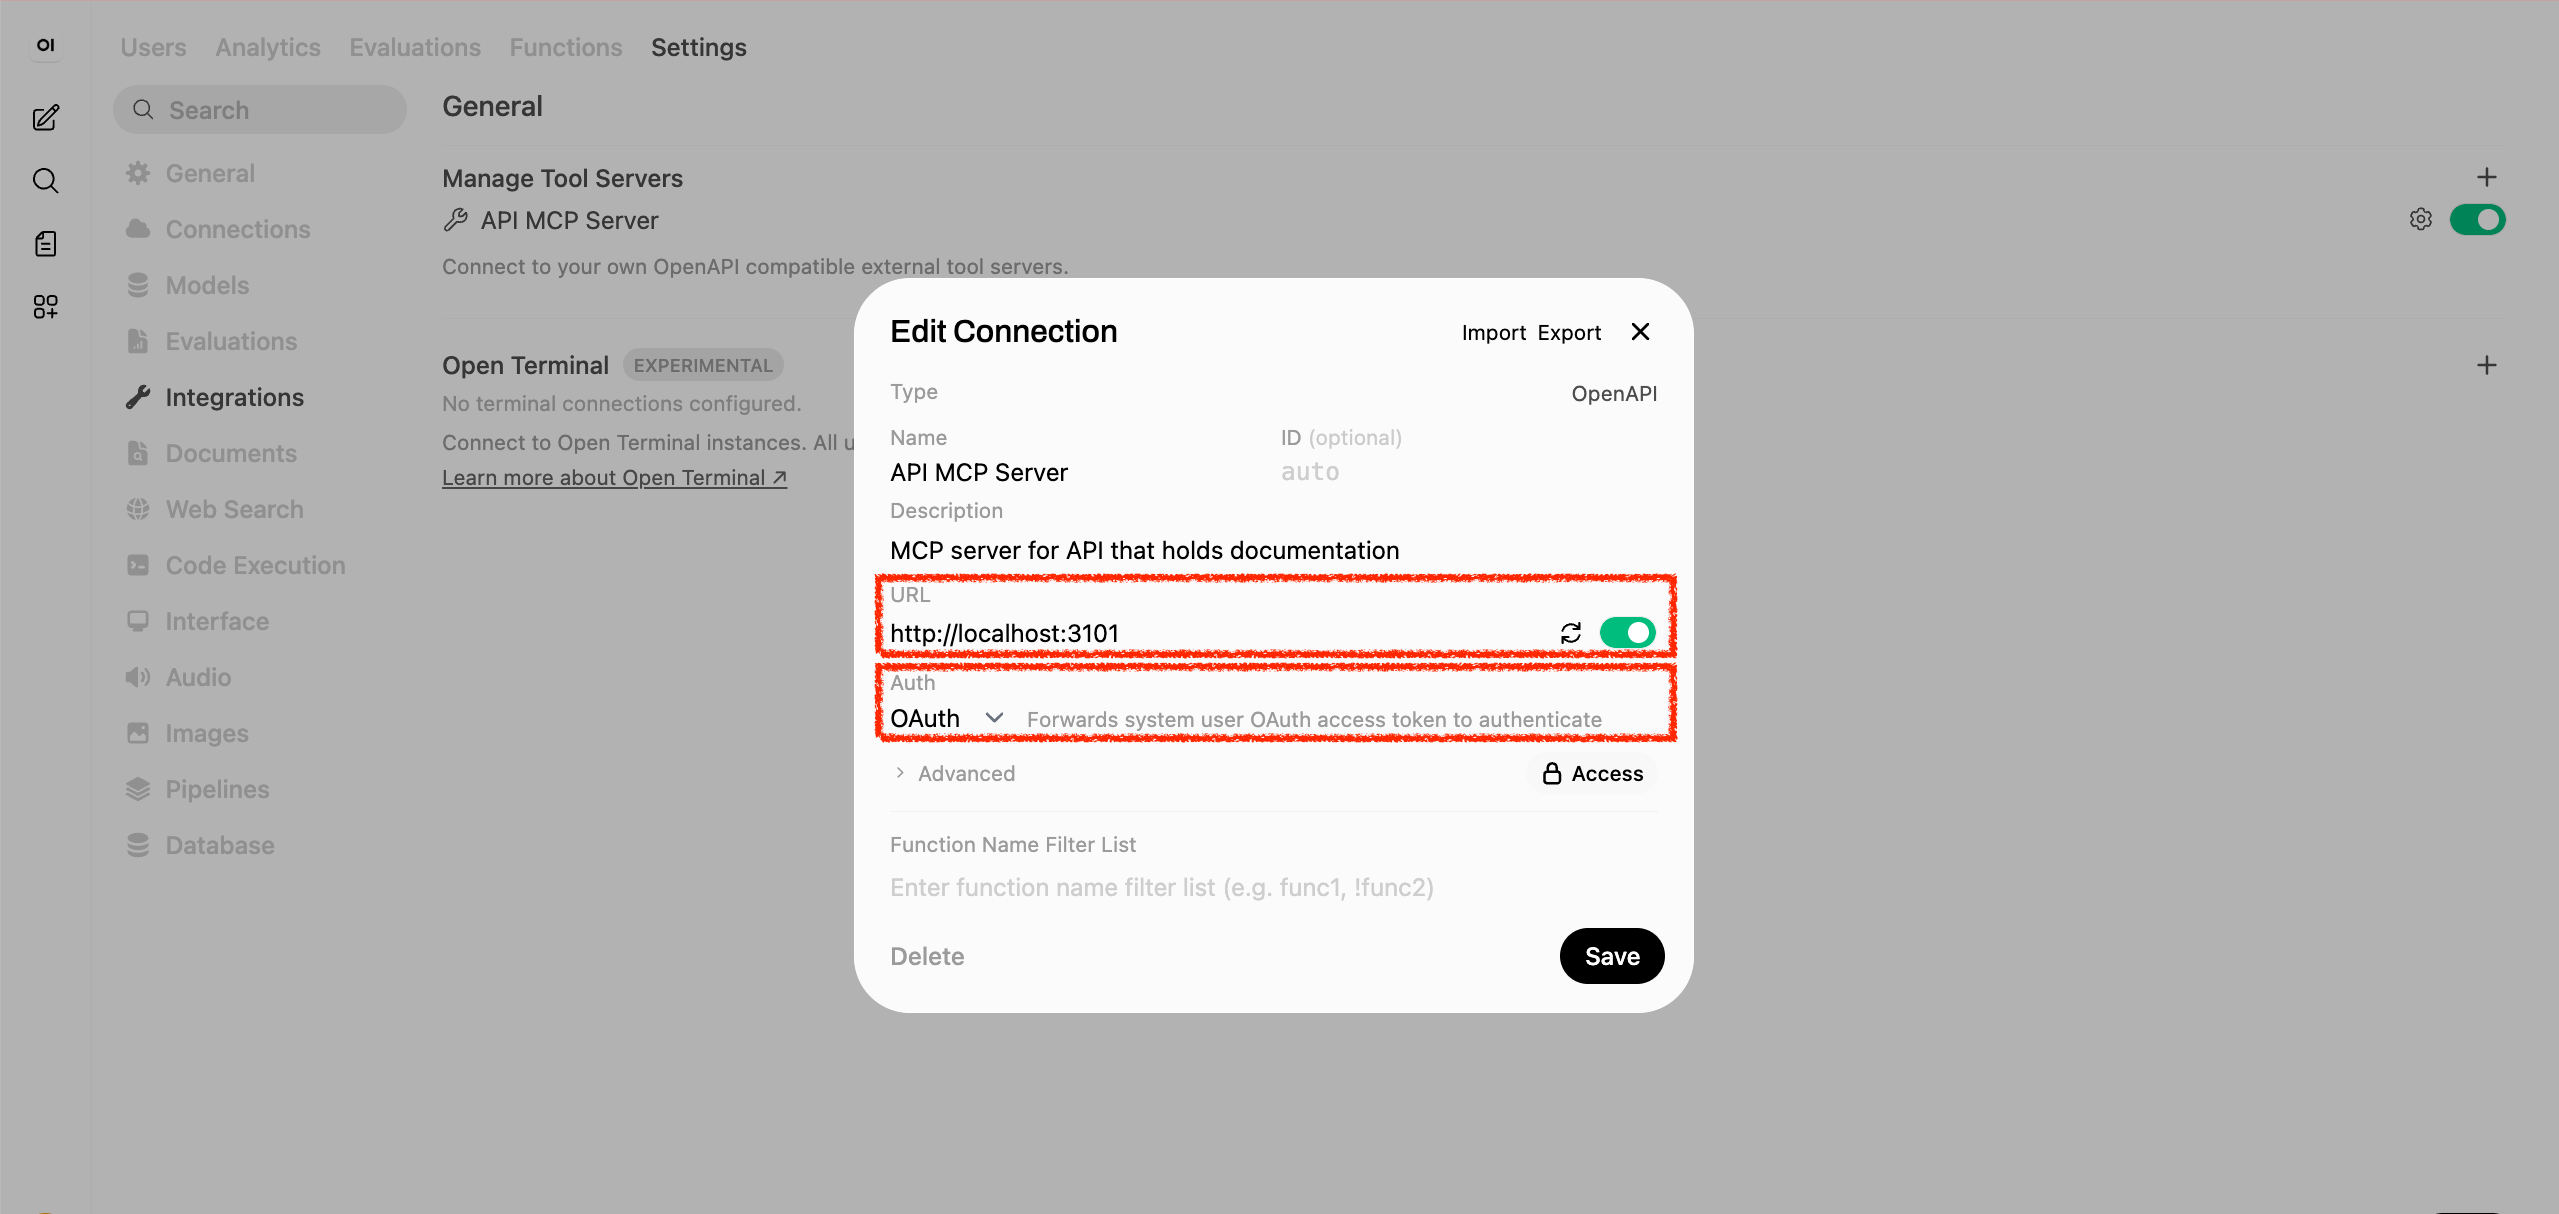
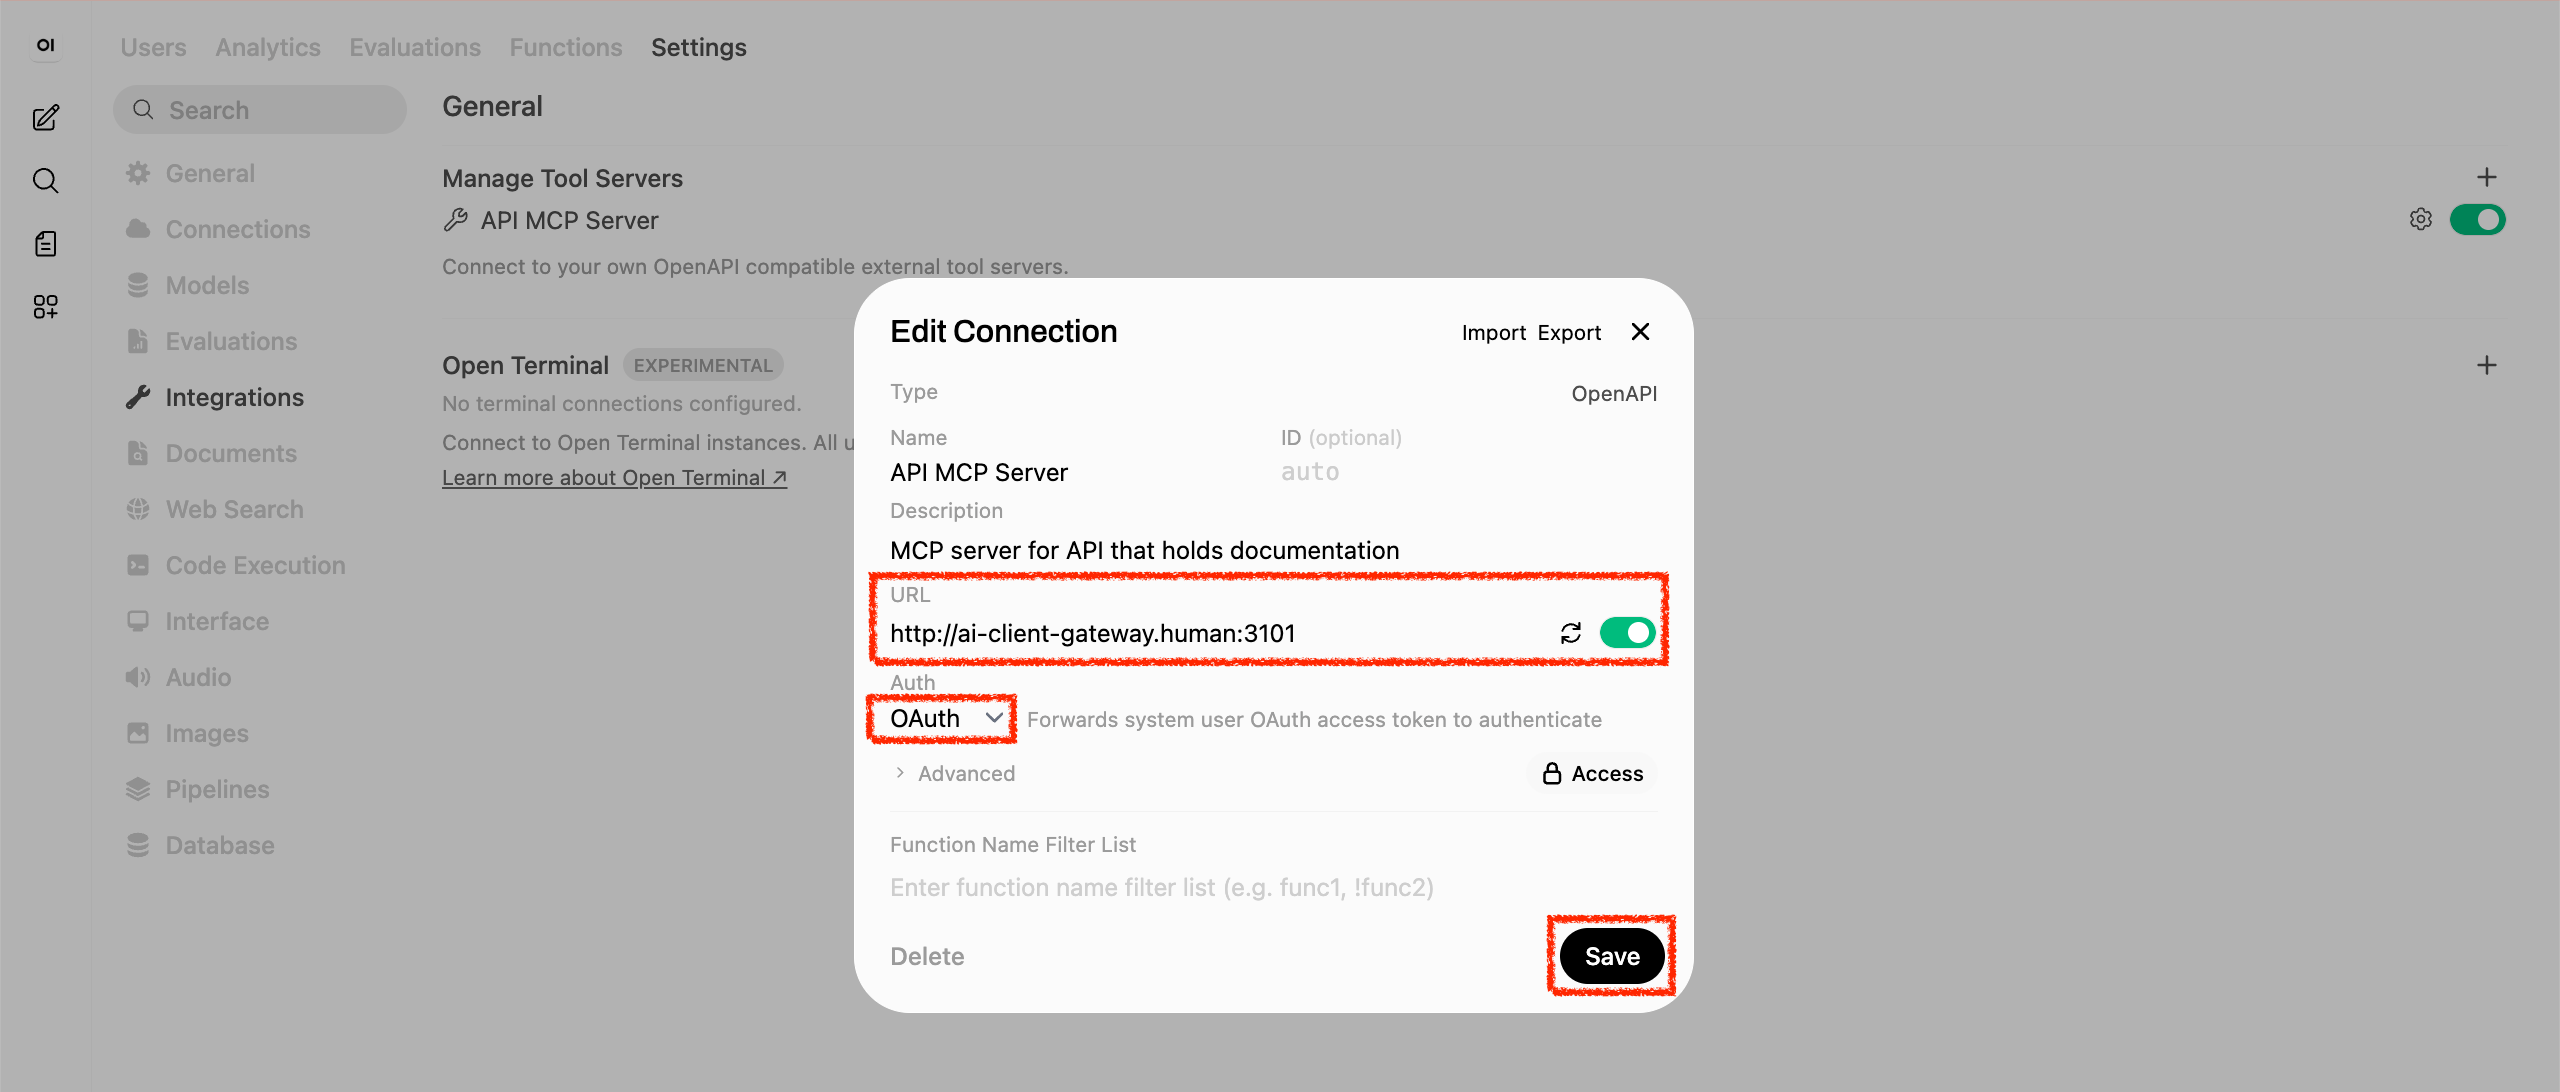
fix

diff --git a/tutorials/11-identity-provider.md b/tutorials/11-identity-provider.md
@@ -214,6 +214,7 @@ Patch the Open WebUI deployment with Keycloak settings:
 
 ```sh
 _open_webui_port=54443
+_keycloak_port=34443
 
 kubectl patch deploy open-webui -n ai --patch "$(cat <<EOF
 spec:
@@ -235,13 +236,18 @@ spec:
                   name: keycloak-client-secret
                   key: OAUTH_CLIENT_SECRET
             - name: OPENID_PROVIDER_URL
-              value: "http://keycloak.idp:8080/realms/master/.well-known/openid-configuration"
+              value: "http://localhost:${_keycloak_port}/realms/master/.well-known/openid-configuration"
             - name: OAUTH_PROVIDER_NAME
               value: "Keycloak"
             - name: OAUTH_SCOPES
               value: "openid email profile"
             - name: OPENID_REDIRECT_URI
               value: "http://localhost:${_open_webui_port}/oauth/oidc/callback"
+        
+        - name: keycloak-proxy
+          image: alpine/socat
+          command: ["socat"]
+          args: ["tcp-listen:${_keycloak_port},fork,reuseaddr", "tcp-connect:keycloak.idp:8080"]
 EOF
 )"
 ```

diff --git a/tutorials/13-ai-client-gateway.md b/tutorials/13-ai-client-gateway.md
@@ -263,7 +263,7 @@ open http://localhost:$_open_webui_keycloak_port
 1. Navigate to `User Icon` > `Admin Panel` > `Settings` > `Integrations`.
 1. Click the configuration icon for the API MCP Server.
 1. Make the following changes:
-  - Change the MCP Authorization Server URL to the proxy URL: http://localhost:3101
+  - Change the MCP Authorization Server URL to the proxy URL: http://ai-client-gateway.human:3101
   - Change the `Auth` to `Oauth`
 
 ![13_edit_connection_of_tool](./assets/13_edit_connection_of_tool.png)
